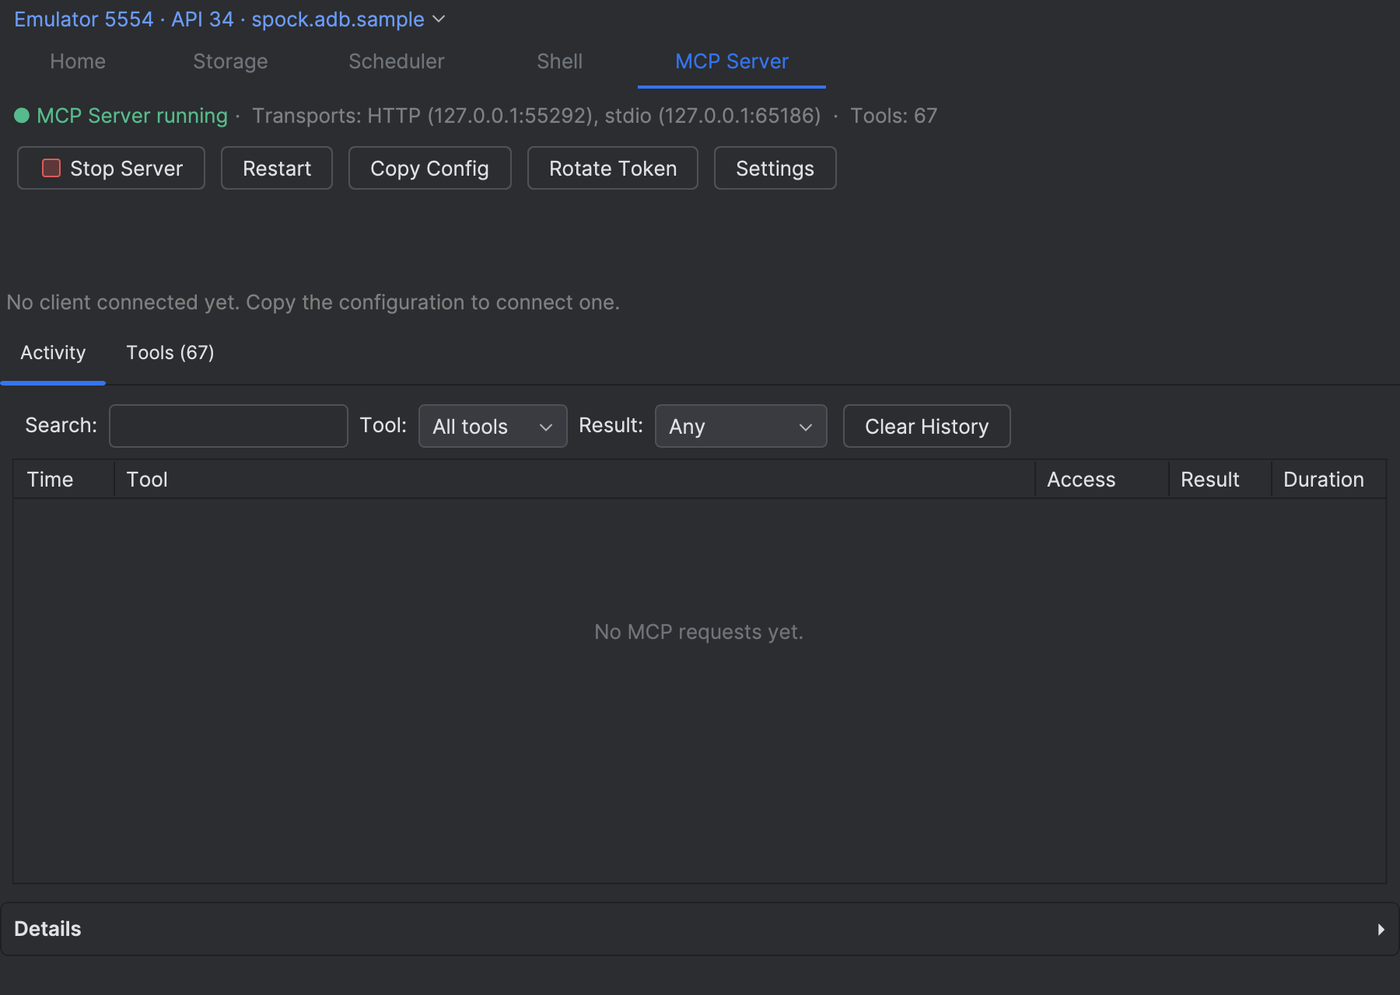
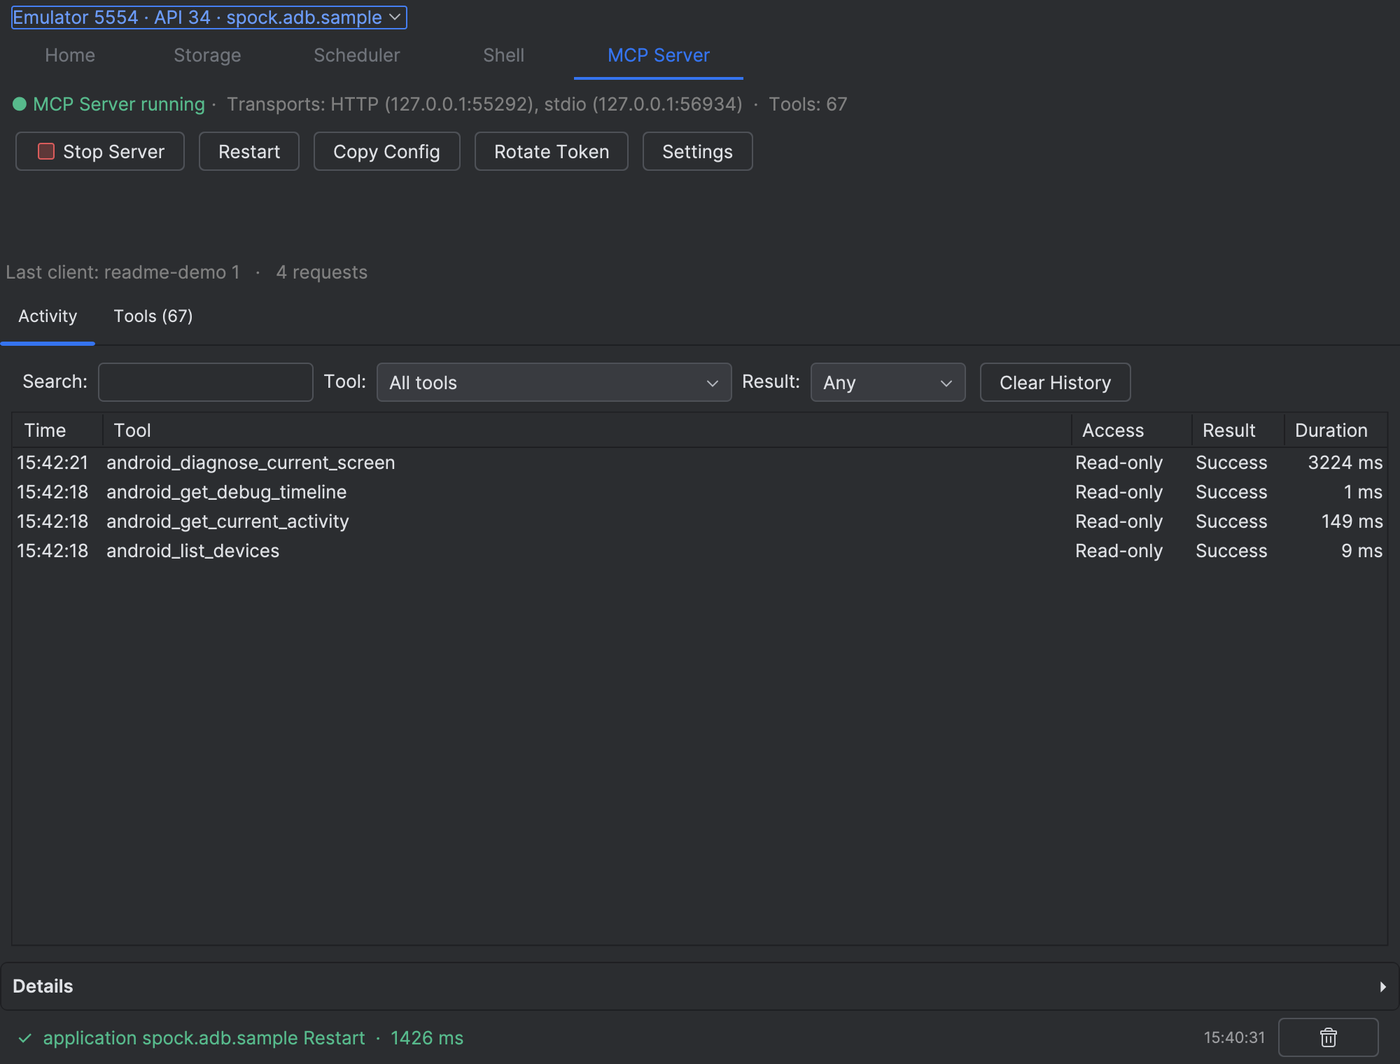
Scroll the UI Tree and MCP tab below a minimum height; richer README screenshots (#139)
Docked in a short slot (Spock Screen stacked above Spock ADB, or a laptop
screen) the UI Tree and the MCP Server tab shared out whatever height they
had: the tree got two rows and header text ran over the controls below it.
MinHeightScrollPane lays them out at a floor (560 and 520) and scrolls the
window instead; above it they fill the space as before, and the width always
follows the window.

README: the UI Tree shot has an element selected, with its unique selector
and Jump to Source; the Timeline section has its own shot of a crash and the
process restarting; the MCP shot shows real agent calls with their access
level, result and duration.

diff --git a/src/main/kotlin/spock/adb/ui/MinHeightScrollPane.kt b/src/main/kotlin/spock/adb/ui/MinHeightScrollPane.kt
@@ -1,0 +1,66 @@
+package spock.adb.ui
+
+import com.intellij.ui.components.JBScrollPane
+import com.intellij.util.ui.JBUI
+import java.awt.BorderLayout
+import java.awt.Dimension
+import java.awt.Rectangle
+import javax.swing.JComponent
+import javax.swing.JPanel
+import javax.swing.JViewport
+import javax.swing.ScrollPaneConstants
+import javax.swing.Scrollable
+import javax.swing.SwingConstants
+
+/**
+ * Fills the tool window when there is room, and scrolls rather than squeezes when there is not.
+ *
+ * A panel of a header, a tree and a details pane shares out whatever height it is given. Docked
+ * in a short slot — Spock Screen stacked above Spock ADB, or a laptop screen — each part got a
+ * sliver: the tree two rows, the details cut off, header text over the controls below it. Below
+ * [minHeight] the content is laid out at that height instead, and the window scrolls to it.
+ *
+ * Only the height has a floor. The width always follows the window, so nothing ever scrolls
+ * sideways, and the content's own scroll panes (the tree, the tables) keep scrolling as before.
+ */
+class MinHeightScrollPane(content: JComponent, private val minHeight: Int) : JBScrollPane() {
+
+    init {
+        setViewportView(Holder(content))
+        border = JBUI.Borders.empty()
+        horizontalScrollBarPolicy = ScrollPaneConstants.HORIZONTAL_SCROLLBAR_NEVER
+        verticalScrollBarPolicy = ScrollPaneConstants.VERTICAL_SCROLLBAR_AS_NEEDED
+    }
+
+    private inner class Holder(content: JComponent) : JPanel(BorderLayout()), Scrollable {
+
+        init {
+            add(content, BorderLayout.CENTER)
+        }
+
+        private val floor: Int get() = JBUI.scale(minHeight)
+
+        /**
+         * Exactly the floor, not the content's own preferred height: a tree's preferred height is
+         * every row it holds, and asking for that would scroll the whole panel instead of the tree.
+         */
+        override fun getPreferredSize(): Dimension = Dimension(super.getPreferredSize().width, floor)
+
+        override fun getPreferredScrollableViewportSize(): Dimension = preferredSize
+
+        override fun getScrollableTracksViewportWidth(): Boolean = true
+
+        override fun getScrollableTracksViewportHeight(): Boolean =
+            ((parent as? JViewport)?.height ?: 0) >= floor
+
+        override fun getScrollableUnitIncrement(visibleRect: Rectangle, orientation: Int, direction: Int): Int =
+            JBUI.scale(UNIT_INCREMENT)
+
+        override fun getScrollableBlockIncrement(visibleRect: Rectangle, orientation: Int, direction: Int): Int =
+            if (orientation == SwingConstants.VERTICAL) visibleRect.height else visibleRect.width
+    }
+
+    private companion object {
+        const val UNIT_INCREMENT = 16
+    }
+}

diff --git a/src/main/kotlin/spock/adb/mcp/McpServerPanel.kt b/src/main/kotlin/spock/adb/mcp/McpServerPanel.kt
@@ -18,6 +18,7 @@ import com.intellij.util.ui.JBUI
 import spock.adb.mcp.tools.ToolRegistry
 import spock.adb.mcp.tools.ToolSafety
 import spock.adb.ui.CollapsibleSection
+import spock.adb.ui.MinHeightScrollPane
 import spock.adb.ui.WrapLayout
 import spock.adb.ui.renderWith
 import java.awt.BorderLayout
@@ -158,8 +159,17 @@ class McpServerPanel(
     private var disposed = false
 
     init {
-        setToolbar(header())
-        setContent(body())
+        // Header and body scroll together below a floor, rather than being squeezed into a
+        // short docking slot; see [MinHeightScrollPane].
+        setContent(
+            MinHeightScrollPane(
+                JPanel(BorderLayout()).apply {
+                    add(header(), BorderLayout.NORTH)
+                    add(body(), BorderLayout.CENTER)
+                },
+                MIN_HEIGHT,
+            ),
+        )
 
         toolsPane.onSelected = { details ->
             detailArea.text = details ?: EMPTY_DETAIL
@@ -560,6 +570,9 @@ class McpServerPanel(
     // ------------------------------------------------------------------ rendering
 
     private companion object {
+        /** Below this the panel scrolls instead of squeezing its parts; see [MinHeightScrollPane]. */
+        const val MIN_HEIGHT = 520
+
         const val GAP = 4
         const val SEARCH_COLUMNS = 14
         const val ANY_TOOL = "All tools"

diff --git a/src/main/kotlin/spock/adb/uitree/UiInspectorPanel.kt b/src/main/kotlin/spock/adb/uitree/UiInspectorPanel.kt
@@ -29,6 +29,7 @@ import com.intellij.util.ui.JBUI
 import spock.adb.device.ConnectedDevice
 import spock.adb.device.ops.InspectionOperations
 import spock.adb.device.ops.UiTreeOperations
+import spock.adb.ui.MinHeightScrollPane
 import java.awt.BorderLayout
 import java.awt.datatransfer.StringSelection
 import java.util.function.Function
@@ -108,8 +109,17 @@ class UiInspectorPanel(
         source.install(tree, focusScope = this)
         Disposer.register(this, source)
 
-        setToolbar(top())
-        setContent(body())
+        // Header and body scroll together below a floor, rather than being squeezed into a
+        // short docking slot; see [MinHeightScrollPane].
+        setContent(
+            MinHeightScrollPane(
+                JPanel(BorderLayout()).apply {
+                    add(top(), BorderLayout.NORTH)
+                    add(body(), BorderLayout.CENTER)
+                },
+                MIN_HEIGHT,
+            ),
+        )
         wire()
         refresh()
     }
@@ -465,6 +475,9 @@ class UiInspectorPanel(
     }
 
     private companion object {
+        /** Below this the panel scrolls instead of squeezing its parts; see [MinHeightScrollPane]. */
+        const val MIN_HEIGHT = 560
+
         const val GAP = 4
         const val SPLIT_PROPORTION = 0.55f
         const val MAX_AUTO_EXPAND_ROWS = 200

diff --git a/README.md b/README.md
@@ -221,6 +221,10 @@ Problems come first, ranked; a part that cannot be read is reported in place and
 
 Filter by category and severity, select an event for its detail and the tab it came from, and select two events to **Copy Range** or **Export** everything between them into a bug report. Device log times are moved onto the host's clock with a measured offset, so an action and the log line it caused appear in the order they happened. The history is bounded and says when the oldest events were dropped. Agents read the same list with `android_get_debug_timeline`.
 
+<p align="center">
+  <img src="images/timeline.png" alt="Spock Logcat › Timeline: lifecycle, actions, a crash with its detail, and the process restarting" width="92%">
+</p>
+
 ---
 
 <a id="ui-inspector"></a>
@@ -245,7 +249,7 @@ Spock ADB can also detect common accessibility problems such as:
 **Missing labels · Duplicate labels · Touch targets below 48dp**
 
 <p align="center">
-  <img src="images/ui-inspector.png" alt="Spock Screen › UI Tree: a Compose screen with its test tags, text and interaction state" width="50%">
+  <img src="images/ui-inspector.png" alt="Spock Screen › UI Tree: a Compose screen with an element selected — its unique selector, copy-as links and Jump to Source" width="55%">
 </p>
 
 ---
@@ -300,7 +304,7 @@ Element actions refuse to guess between look-alike targets, can wait for the scr
 Sensitive or destructive operations can require approval, and MCP activity remains visible inside the IDE. The status bar shows the server's state — a green dot while it runs, amber when an agent is driving a different device from the one you selected — and a click starts or stops it, connects a client, or opens the agent activity.
 
 <p align="center">
-  <img src="images/mcp-server.png" alt="MCP server: state, transports, connect and token controls, and the agent activity log" width="88%">
+  <img src="images/mcp-server.png" alt="MCP server tab: running, the last client, and each agent call with its access level, result and duration" width="88%">
 </p>
 
 See [MCP documentation](docs/MCP.md) for setup, the complete tool list, and safety details.

diff --git a/CHANGELOG.md b/CHANGELOG.md
@@ -239,6 +239,9 @@
 
 ### Fixed
 
+- **The UI Tree and the MCP Server tab squeezed their parts into a short docking slot**, so the
+  tree showed two rows and header text overlapped the controls under it. Below a minimum height
+  they now scroll instead.
 - **The Shell tab said "No device selected." under "Runs on <device>"** until a command was run,
   when the device arrived after the tab was built. The stale line is now cleared.
 - **Open Logcat, Open UI Inspector, Open MCP Server Panel and Open Devices opened the tool window
